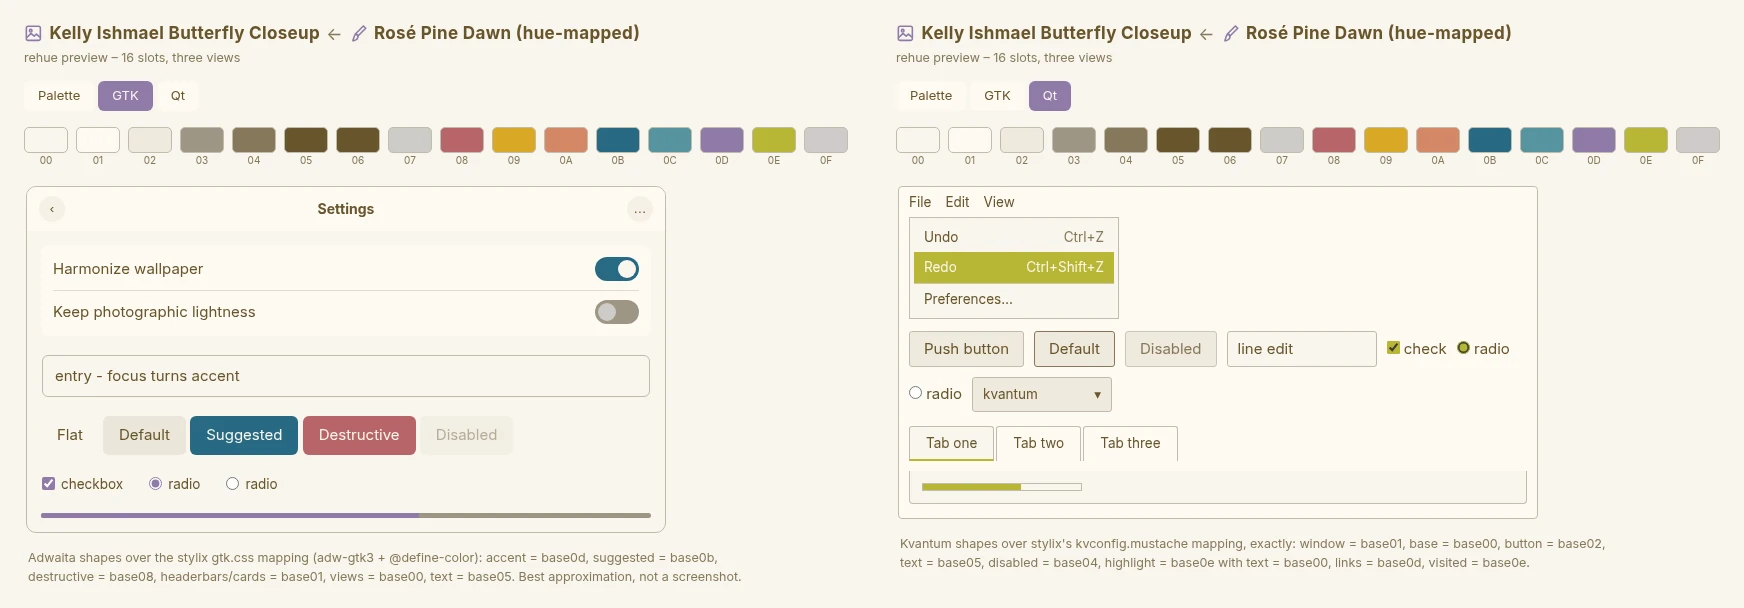
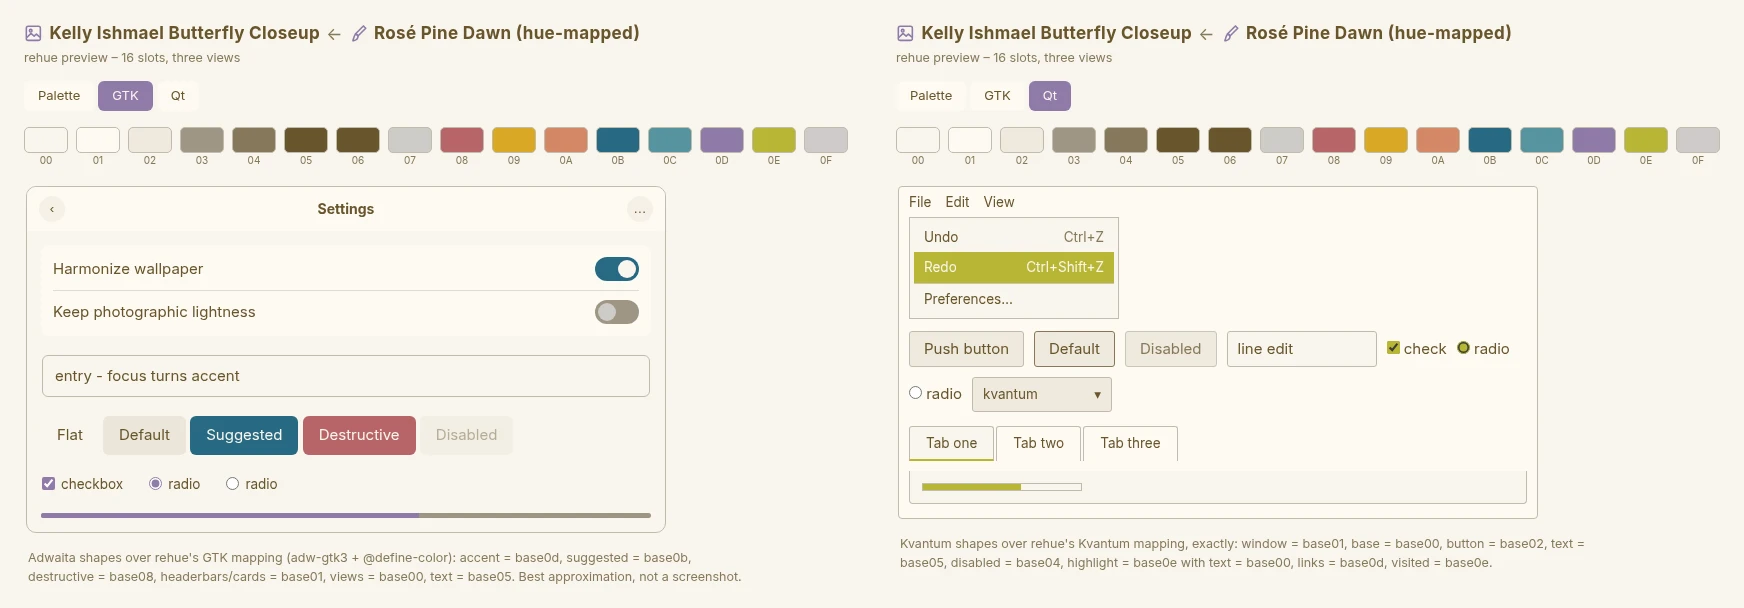
docs: README scheme count renders inline, inline generated values can't start a line; preview and README say rehue's GTK and Kvantum mapping; roadmap: apply, WCAG contrast, the Nix module and loop bridges move to on demand

Changed region(s): [[0.5264, 0.875, 0.9289, 0.9375], [0.0929, 0.9062, 0.4025, 0.9375]]

diff --git a/src/preview-template.html b/src/preview-template.html
@@ -336,7 +336,7 @@ main section { max-width: 780px; margin: 0 2px; }
       <div class="gprog"><span></span></div>
     </div>
   </div>
-  <p class="hint">Adwaita shapes over the stylix gtk.css mapping (adw-gtk3 + &commat;define-color):
+  <p class="hint">Adwaita shapes over rehue's GTK mapping (adw-gtk3 + &commat;define-color):
   accent = base0d, suggested = base0b, destructive = base08, headerbars/cards = base01,
   views = base00, text = base05. Best approximation, not a screenshot.</p>
 </section>
@@ -367,7 +367,7 @@ main section { max-width: 780px; margin: 0 2px; }
       </div>
     </div>
   </div>
-  <p class="hint">Kvantum shapes over stylix's kvconfig.mustache mapping, exactly:
+  <p class="hint">Kvantum shapes over rehue's Kvantum mapping, exactly:
   window = base01, base = base00, button = base02, text = base05, disabled = base04,
   highlight = base0e with text = base00, links = base0d, visited = base0e.</p>
 </section>

diff --git a/tests/docs.rs b/tests/docs.rs
@@ -188,6 +188,14 @@ fn parse(text: &str) -> Result<Vec<Region>, String> {
                     if text[*oend..at].contains('\n') {
                         return Err(format!("line {line}: inline region '{name}' spans lines"));
                     }
+                    // a line opening with `<!--` is an HTML block to
+                    // GitHub, which breaks the paragraph around it
+                    let line_start = text[..*oat].rfind('\n').map_or(0, |i| i + 1);
+                    if text[line_start..*oat].trim().is_empty() {
+                        return Err(format!(
+                            "line {line}: inline region '{name}' starts its line (GitHub breaks the paragraph there); put text before it"
+                        ));
+                    }
                     Region {
                         name,
                         inline: true,
@@ -984,7 +992,8 @@ fn malformed_regions_are_errors_with_lines() {
     assert!(err("<!-- /gen:n -->").contains("closes nothing"));
     assert!(err("<!-- gen:n -->1<!-- /gen:table -->").contains("closes 'n'"));
     assert!(err("<!-- gen:table -->\n<!-- gen:n -->\n").contains("don't nest"));
-    assert!(err("<!-- gen:zzz -->x<!-- /gen:zzz -->").contains("unknown region 'zzz'"));
+    assert!(err("a <!-- gen:zzz -->x<!-- /gen:zzz -->").contains("unknown region 'zzz'"));
+    assert!(err("a\n<!-- gen:n -->1<!-- /gen:n --> b").contains("starts its line"));
     assert!(err("<!-- gen:table -->\nx <!-- /gen:table -->").contains("mixes block and inline"));
     assert!(
         err("<!-- gen:table -->\n<!-- /gen:table -->\n<!-- gen:table -->\n<!-- /gen:table -->\n")
@@ -992,9 +1001,9 @@ fn malformed_regions_are_errors_with_lines() {
     );
     assert!(err("<!-- gen:Bad Name -->").contains("bad region name"));
     // inline duplicates are fine
-    let twice = "<!-- gen:n -->1<!-- /gen:n --> and <!-- gen:n -->2<!-- /gen:n -->";
+    let twice = "a <!-- gen:n -->1<!-- /gen:n --> and <!-- gen:n -->2<!-- /gen:n -->";
     assert_eq!(
         render(twice, &fake).unwrap(),
-        "<!-- gen:n -->42<!-- /gen:n --> and <!-- gen:n -->42<!-- /gen:n -->"
+        "a <!-- gen:n -->42<!-- /gen:n --> and <!-- gen:n -->42<!-- /gen:n -->"
     );
 }

diff --git a/ROADMAP.md b/ROADMAP.md
@@ -3,39 +3,14 @@
 Planned and possible work. [CHANGELOG.md](CHANGELOG.md) has what
 shipped.
 
-- **Apply, next steps**: `rehue apply` v1 hands off to tinty.
-  - *Native rendering* (evaluation): render tinted-theming templates
-    directly (e.g. with the `tinted-builder` library), so apply works
-    without tinty and templates can render inside a Nix build. Also
-    investigate whether Stylix's per-app targets can be reused, so Nix
-    and non-Nix setups style apps the same way.
-  - *Hooks* (investigation): tinty already runs per-app hooks; decide
-    what, if anything, rehue should own beyond `wallpaper-command`.
-  - *Patch* (investigation, opt-in only): rewriting colors in place
-    inside existing CSS/config files, as lutgen's `patch` does. Never
-    the default path: fidelity is uncertain and in-place writes can
-    break files, so at minimum diff-first with explicit confirmation.
 - **Scheme pager**: page `inspect --schemes` through `$PAGER`
   (`less -R`) when stdout is a terminal, as git does, with
   `--no-pager`; pipes stay plain.
-- **WCAG contrast mode**: a contrast-ratio option for `rehue scheme`
-  (e.g. 4.5:1, the ratio theme designers check against) alongside the
-  lightness-gap guard `min-text-contrast`, and possibly covering more
-  foreground slots than base05.
 - **Scheme generation**: the big one. Derive the lightness/chroma/
   contrast structure a designer would have built, guided by the
   wallpaper, so `rehue scheme` works without a reference scheme at all.
 - **Look book**: a docs page showcasing standout results, each with
   the images and the recipe that made it.
-- **Nix module**: a home-manager / NixOS module with typed options
-  (checked and documented per option) that writes rehue's config and
-  wires the builders' outputs into Stylix, alongside today's `lib`
-  builders and their `config` attribute set.
-- **Loop bridges in auto**: `wal --loop` lists bridges but `auto`
-  takes fades, as the seam score can't tell whether `minterpolate`
-  will smear. A bridge won on a slow camera move and smeared a city
-  skyline; find a signal (camera motion is the first guess) so `auto`
-  can take one when it would win.
 - **Alternative extraction backends**: optional extraction libraries
   alongside the built-in histogram + circular k-means (the options
   themselves are documented in [docs/grading.md](docs/grading.md#extraction)).
@@ -52,3 +27,28 @@ Left out until someone asks for them.
   JPEG XL has a pure-Rust decoder (jxl-oxide).
 - **Shader export**: the grade as a LUT texture plus GLSL, with ordered
   dithering, for mpv, glpaper or Hydra.
+- **Apply, next steps**: `rehue apply` v1 hands off to tinty.
+  - *Native rendering* (evaluation): render tinted-theming templates
+    directly (e.g. with the `tinted-builder` library), so apply works
+    without tinty and templates can render inside a Nix build. Also
+    investigate whether Stylix's per-app targets can be reused, so Nix
+    and non-Nix setups style apps the same way.
+  - *Hooks* (investigation): tinty already runs per-app hooks; decide
+    what, if anything, rehue should own beyond `wallpaper-command`.
+  - *Patch* (investigation, opt-in only): rewriting colors in place
+    inside existing CSS/config files, as lutgen's `patch` does. Never
+    the default path: fidelity is uncertain and in-place writes can
+    break files, so at minimum diff-first with explicit confirmation.
+- **WCAG contrast mode**: a contrast-ratio option for `rehue scheme`
+  (e.g. 4.5:1, the ratio theme designers check against) alongside the
+  lightness-gap guard `min-text-contrast`, and possibly covering more
+  foreground slots than base05.
+- **Nix module**: a home-manager / NixOS module with typed options
+  (checked and documented per option) that writes rehue's config and
+  wires the builders' outputs into Stylix, alongside today's `lib`
+  builders and their `config` attribute set.
+- **Loop bridges in auto**: `wal --loop` lists bridges but `auto`
+  takes fades, as the seam score can't tell whether `minterpolate`
+  will smear. A bridge won on a slow camera move and smeared a city
+  skyline; find a signal (camera motion is the first guess) so `auto`
+  can take one when it would win.

diff --git a/README.md b/README.md
@@ -137,7 +137,7 @@ wiring it in. This is the butterfly's:
 
 ![preview.html, palette view: the re-hued rose pine dawn on a terminal, code block and widgets beside the repainted butterfly](assets/examples/preview-palette.webp)
 
-Two more tabs approximate how Stylix maps the same 16 slots onto GTK
+Two more tabs approximate how rehue maps the same 16 slots onto GTK
 (Adwaita) and Qt (Kvantum):
 
 ![preview.html, GTK view (left) and Qt view (right)](assets/examples/preview-toolkits.webp)
@@ -181,8 +181,7 @@ forms:
 | `-p` | `--palette` (wal, icons) |
 | `-l` | `--look` |
 
-A scheme is a name from the bundled collection (all
-<!-- gen:scheme-count -->375<!-- /gen:scheme-count -->
+A scheme is a name from the bundled collection (all <!-- gen:scheme-count -->375<!-- /gen:scheme-count -->
 [tinted-theming](https://github.com/tinted-theming/schemes) base16
 schemes) or a path to a scheme YAML.
 

diff --git a/docs/inspect.md b/docs/inspect.md
@@ -42,7 +42,7 @@ row) and scheme mode writes `inspect.png` (the 16 slots in a row) and
 A scheme (`scheme -i`, `wal -s`, `icons -s`, `inspect -s`) is either a
 **name** from the bundled collection (all <!-- gen:scheme-count -->375<!-- /gen:scheme-count -->
 [tinted-theming](https://github.com/tinted-theming/schemes) base16
-schemes, the same set Stylix uses) or a **path** to a scheme YAML.
+schemes, the same set tinty and Stylix use) or a **path** to a scheme YAML.
 
 To use your own collection, pass `--scheme-dir`: names are looked up
 there first, then in the bundled set.
